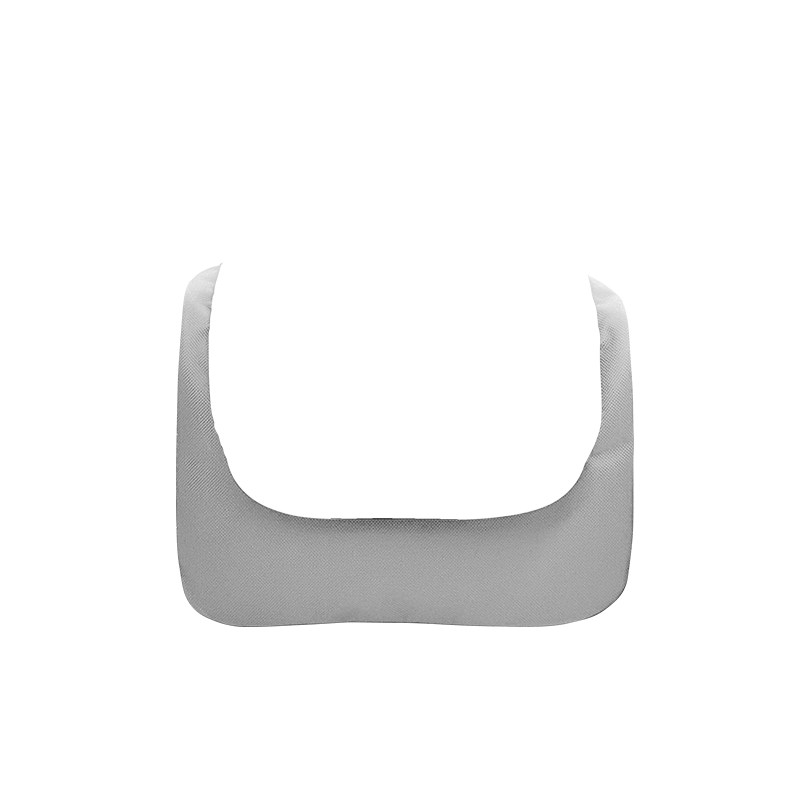
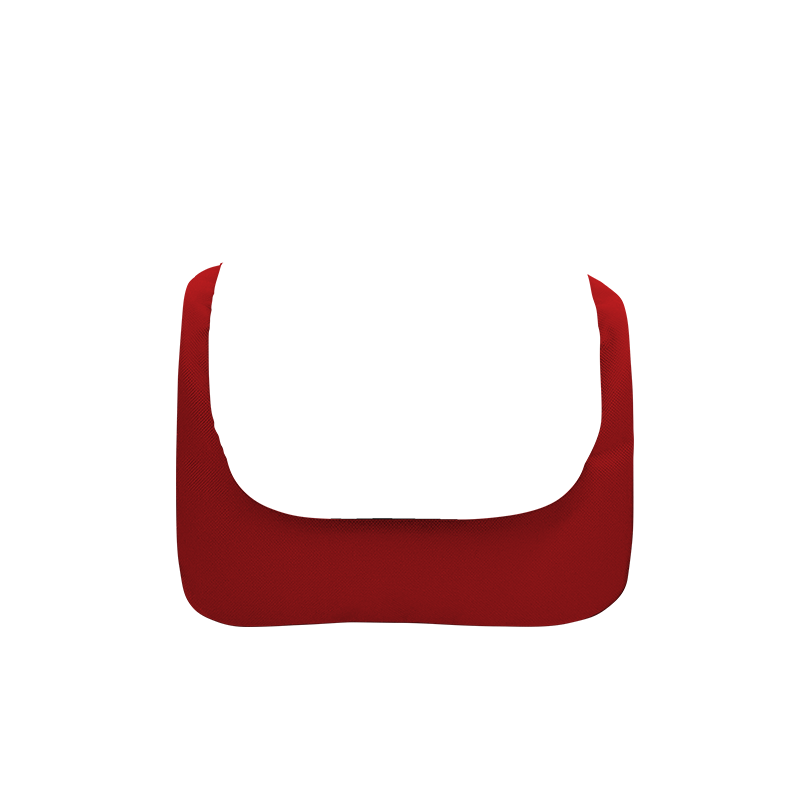
inicio dos testes
início dos testes para capturar o scroll e alterar a matiz da imagem e assim criar um animação nas cores enquanto o scroll rola

Changed region(s): [[0.2188, 0.3125, 0.8125, 0.7812]]

diff --git a/assets/script/script.js b/assets/script/script.js
@@ -1,20 +1,11 @@
-// quando mouse passar sobre botão, botão = destaque e mostrar balão com botão de cores
-// enquanto mouse estiver sobre o botão ou sobre o balão o mesmo deve permanecer na tela, e desaparecer quando o mouse sair de cima de um dos dois.
+/*  telaGira = captura valores do scroll
+    valor.mudaMatiz =  muda a matiz  -> filter: hue-rotate(deg)
+    
+    criar uma funcao que altera o hue-rotate de 0 a 360.
+     valor.mudaMatiz = telaGira
 
+*/
 
-
-
-const listaBtnDestaque = document.querySelectorAll('.listaBtnDestaque')
-const listaPartesProdutoBtn = document.querySelectorAll('.btnComponentesProduto');
-
-listaPartesProdutoBtn[0].addEventListener('mouseover', function (){
-    this.style.backgroundColor = '#fc5b5b';
-    listaBtnDestaque[0].classList.remove('listaBtnDestaque')
-
-})
-
-listaPartesProdutoBtn[0].addEventListener('mouseout' , function () {
-   
-    listaBtnDestaque[0].classList.add('listaBtnDestaque')
-    this.style.backgroundColor = '#d9d9d9';
+document.addEventListener('DOMContentLoaded' , function () {
+    
 })

diff --git a/index.html b/index.html
@@ -6,6 +6,7 @@
     <title>customBrinde</title>
     <link rel="stylesheet" href="assets/style/style.css">
     <link rel="stylesheet" href="assets/style/btnControles.css">
+    <link rel="stylesheet" href="assets/style/mudaCor.css">
 </head>
 <body>
 
@@ -13,9 +14,9 @@
         <div class="sobreposicao">
             <img class="fotos" src="assets/img/base.jpg" alt="">
             <img class="fotos" src="assets/img/camadaAjustes.png" alt="">
-            <img class="fotos imag-corpo" src="assets/img/corpo.png" alt="">
-            <img class="fotos imag-tampa" src="assets/img/tampa.png" alt="">
-            <img class="fotos imag-detalhes" src="assets/img/detalhes.png" alt="">
+            <img id="parteCorpo" class="fotos mudaCorpo mudaCorpo2" src="assets/img/corpo.png" alt="">
+            <img id="parteTampa" class="fotos MudaTampa" src="assets/img/tampa.png" alt="">
+            <img id="parteDetalhes" class="fotos MudaDetalhe" src="assets/img/detalhes.png" alt="">
         </div>
 
         <div class="controle">

diff --git a/assets/style/style.css b/assets/style/style.css
@@ -21,22 +21,30 @@
 
 }
 
+body {
+    height: 300vh;
+    display: flex;
+    width: 100%;
+    border: solid;
+}
+
 .customBrinde {
     display: flex;
     gap: 30px;
     background-color: #eff7fc;
+    width: 100%;
 }
 
 
 .sobreposicao {
     display: flex;
     width: 50%;
-    height: 90vh;
     justify-content: center;
     align-items: center;
     position: relative;
     overflow: hidden;
     padding: 3rem;
+
     
 }
 
@@ -45,8 +53,6 @@
     position: absolute;
     border-radius: 60px;
     
-    
-
 }
 
 .controle {

diff --git a/assets/style/mudaCor.css b/assets/style/mudaCor.css
@@ -1,0 +1,9 @@
+.mudaCorpo {
+    filter: hue-rotate(0deg);
+    transition: 1s;
+}
+
+.mudaCorpo:hover {
+    filter: hue-rotate(200deg);
+    
+}
